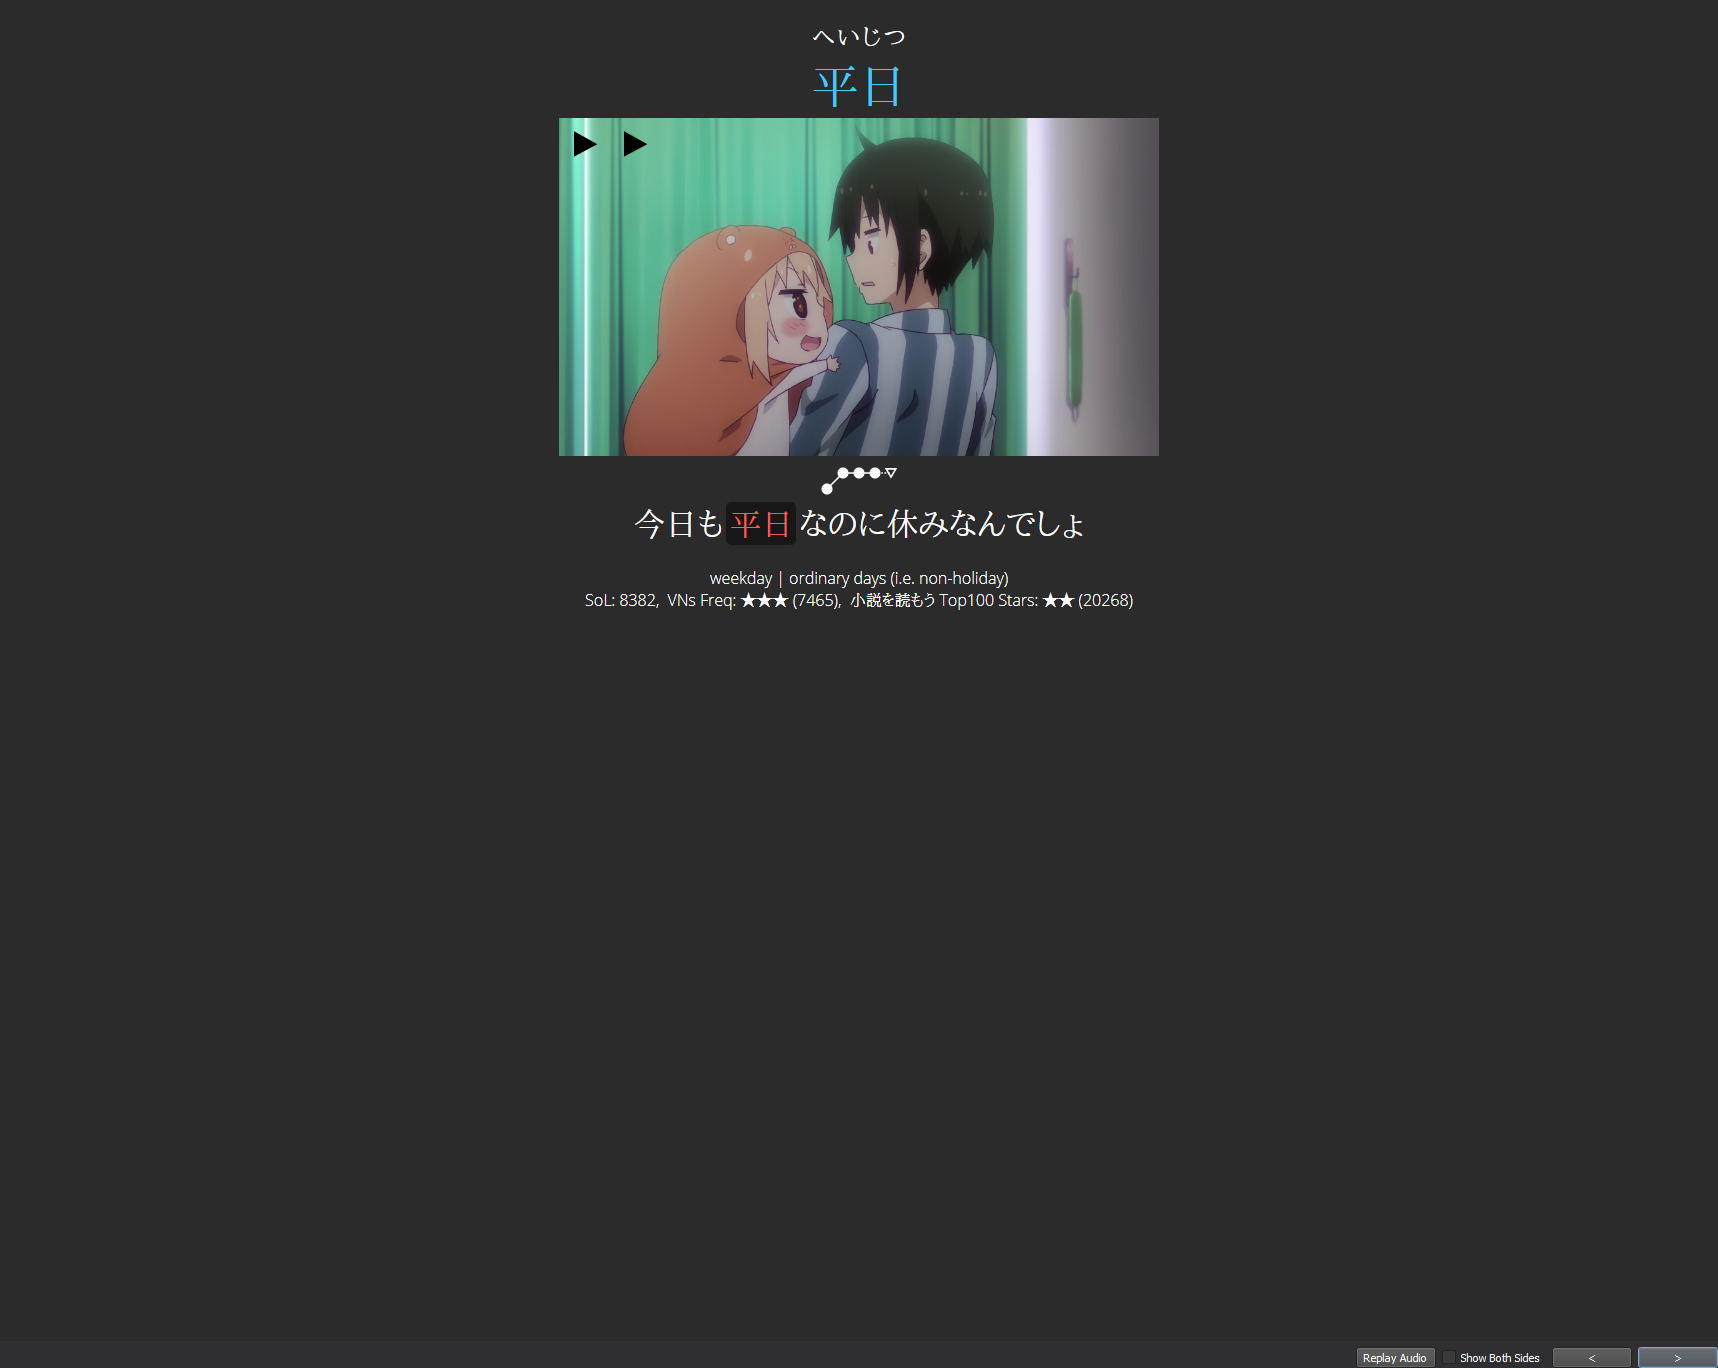
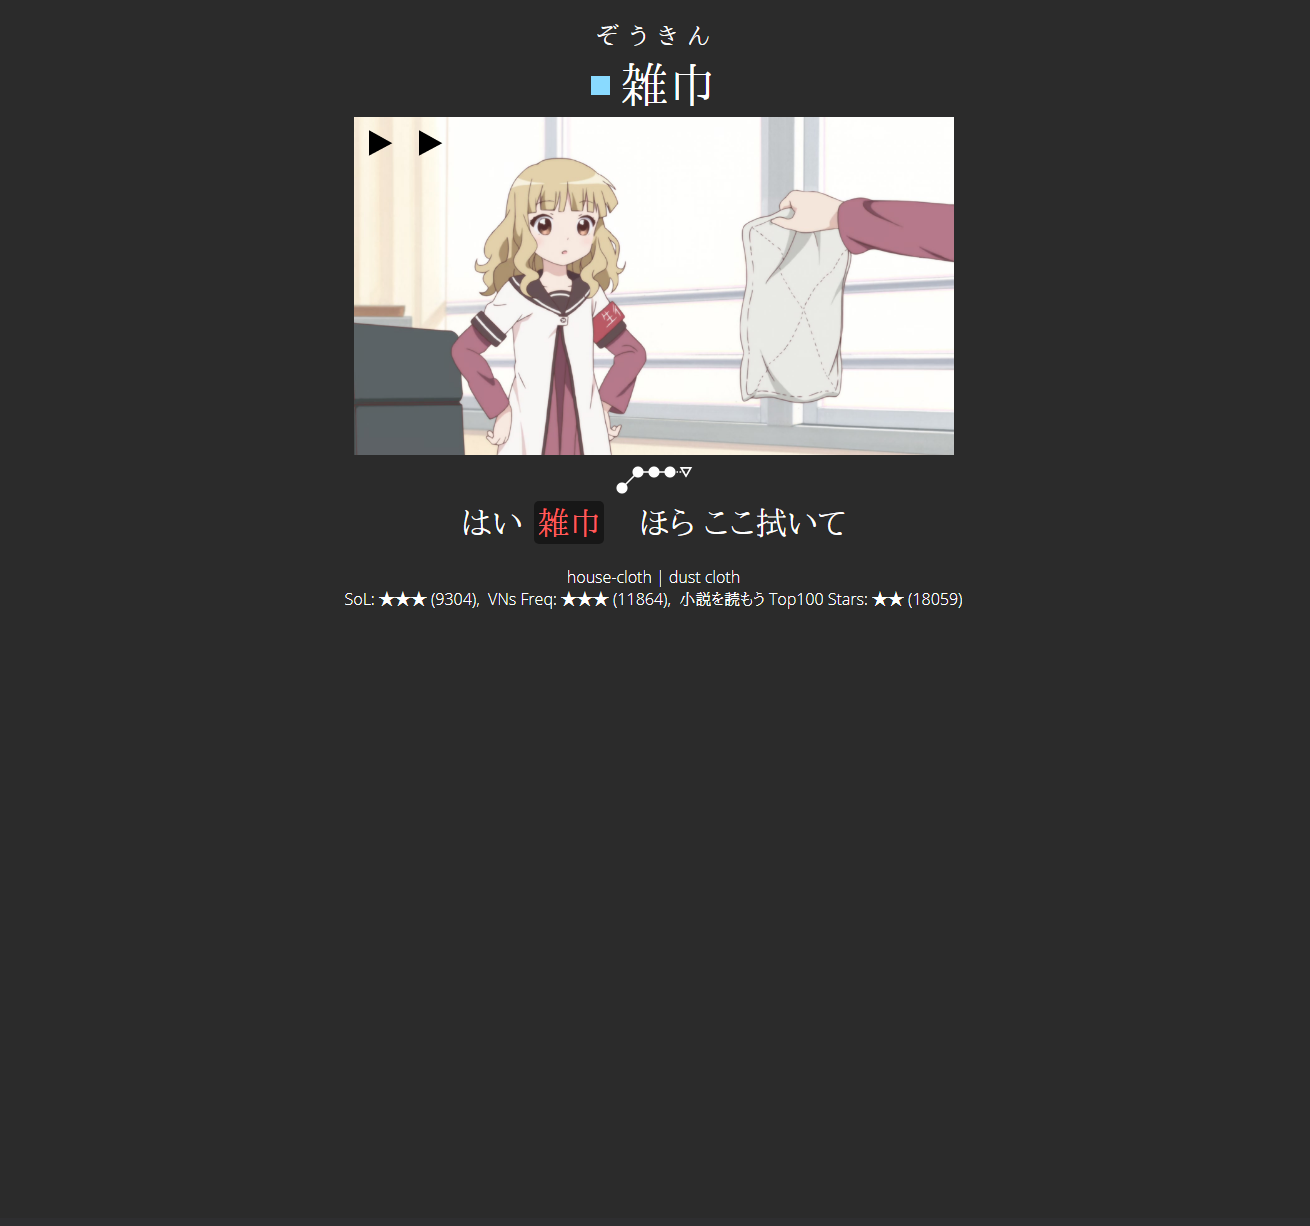
updated emintent note type v2

Changed region(s): [[0.2443, 0.0, 0.7328, 0.4959], [0.7634, 0.9608, 1.0, 1.0]]

diff --git a/src/projects/notetype2.md b/src/projects/notetype2.md
@@ -10,9 +10,9 @@ title: Eminent Note Type V2
 
 {{description}}
 
-***Updated 7/10/2021***
+***Updated 12/4/2021***
 
-[Download](https://mega.nz/file/rRUlFAya#k6hv6vyro4tHnzgg1pitSuiLOIaxeaPIsfk0npoUDjE)
+[Download](https://mega.nz/file/TN10nDIA#Qq0SmyrhhlA-AJUW3PefICyfhdAh8yE4rNLY0YaHZz8)
 
 ![front side of the card](/images/notetype2/card_front.png)
 
@@ -24,7 +24,8 @@ title: Eminent Note Type V2
 * Audio on back with audio icons overlayed on the image.
 * Shows dictionary form of the target word at the top, and automatically highlights the conjugated version of the word in the sentence.
 * Shows reading of the target word as furigana.
-* Colors the dictionary form of the word based on its pitch pattern (using 0 javascript).
+* Colored box indicates pitch pattern of the word (using 0 javascript).
+* Alternative bold coloring for proper noun cards
 * Tested on both desktop and mobile
 
 ## How To Use
@@ -34,6 +35,16 @@ Once you've used the download link at the top of this page, it should have impor
 Now all you have to do is add new cards, or convert existing cards to this note type.
 
 This note type was specifically created to be used with the workflow described in [Sentence Mining With Yomichan & Animebook](/posts/20210703).
+
+## Proper Noun Cards
+
+For those who would like to learn to read proper nouns through mining rather than the [proper nouns deck](https://ankiweb.net/shared/info/3885156604), I've overridden the **bold** styling on the card to change the color of text. This means, whenever you mine a proper noun, you can simply make the **wordDictionaryForm** bold, and the color of the word on the card will change to yellow. This will indicate that you only need to test yourself on the reading, not the meaning.
+
+![front side of the card with proper noun highlighting](/images/notetype2/proper_noun.png)
+
+Of course, even if you aren't mining proper nouns, this feature may also be useful for cards that have many definitions, and you want to focus on only one or two.
+
+![back side of the card with definition highlighting](/images/notetype2/highlighted_definition.png)
 
 ## Pitch Accent Colors
 
@@ -61,32 +72,62 @@ By default, I have the following CSS on the note type:
 /****** colors ******/
 :root {
 	--red: #fd5c5c;
-	--blue: #42CAFD;
+	--blue: #89daff;
 	--orange: #fca311;
-	--green: #75C1A3;
-	--purple: #D4CBE5;
+	--green: #4e937a;
+	--purple: #afa2ff;
 }
 
 /****** pitch accent colors ******/
 
-.heiban {
-	color: var(--blue);
+.heiban::before {
+	content: "";
+	display: inline-block;
+	height: 0.7ch;
+	width: 0.7ch;
+	margin-right: 10px;
+	margin-bottom: 0.3ch;
+	background-color: var(--blue);
 }
 
-.atamadaka {
-	color: var(--red);
+.atamadaka::before {
+	content: "";
+	display: inline-block;
+	height: 0.7ch;
+	width: 0.7ch;
+	margin-right: 10px;
+	margin-bottom: 0.3ch;
+	background-color: var(--red);
 }
 
-.nakadaka {
-	color: var(--orange);
+.nakadaka::before {
+	content: "";
+	display: inline-block;
+	height: 0.7ch;
+	width: 0.7ch;
+	margin-right: 10px;
+	margin-bottom: 0.3ch;
+	background-color: var(--orange);
 }
 
-.odaka {
-	color: var(--green);
+.odaka::before {
+	content: "";
+	display: inline-block;
+	height: 0.7ch;
+	width: 0.7ch;
+	margin-right: 10px;
+	margin-bottom: 0.3ch;
+	background-color: var(--green);
 }
 
-.kifuku {
-	color: var(--purple);
+.kifuku::before {
+	content: "";
+	display: inline-block;
+	height: 0.7ch;
+	width: 0.7ch;
+	margin-right: 10px;
+	margin-bottom: 0.3ch;
+	background-color: var(--purple);
 }
 ```
 
@@ -95,13 +136,6 @@ If you want to change the colors, you can just change the hex code inside of `:r
 The color I chose for each pitch pattern is the same as [Migaku Japanese](https://www.migaku.io/tools-guides/migaku-japanese/manual/#pitch-accent-coloring), so if you're already used to their system you won't need to re-learn another. If you want to use different colors for the various pitch patterns, just change which variable is used. For example, change `var(--green)` to `var(--blue)`, etc.
 
 If you don't want pitch coloring at all, you can just remove that CSS and the word will be white.
-
-By default, pitch coloring is only shown on the back of the card. If you want coloring on the front as well, you need to remove the `class="white"` from a div on the front side of the card.
-
-```html
-	<!---------------- If you want pitch coloring on the front, remove the "white" class below ---------------->
-	<div id="word" class="white">
-```
 
 Since the word is simply tagged with a class based on pitch, you're not limited to just colors for styling, you can use [any css](https://www.w3schools.com/css/) on it. Feel free to get creative.
 
@@ -154,6 +188,11 @@ The pitch accent graph of ***wordDictionaryForm***.
 Rarity of ***wordDictionaryForm*** according to some frequency list(s).
 
 ## Changelog
+
+* 12/4/2021
+  * Updated pitch accent colors.
+  * Removed pitch accent colors from the wordDictionaryForm, and instead made a colored square next to the word.
+  * Added style overrides to bold text, to accomodate proper noun mining and definition highlighting.
 
 * 7/10/2021
   * Added pitch accent coloring.
